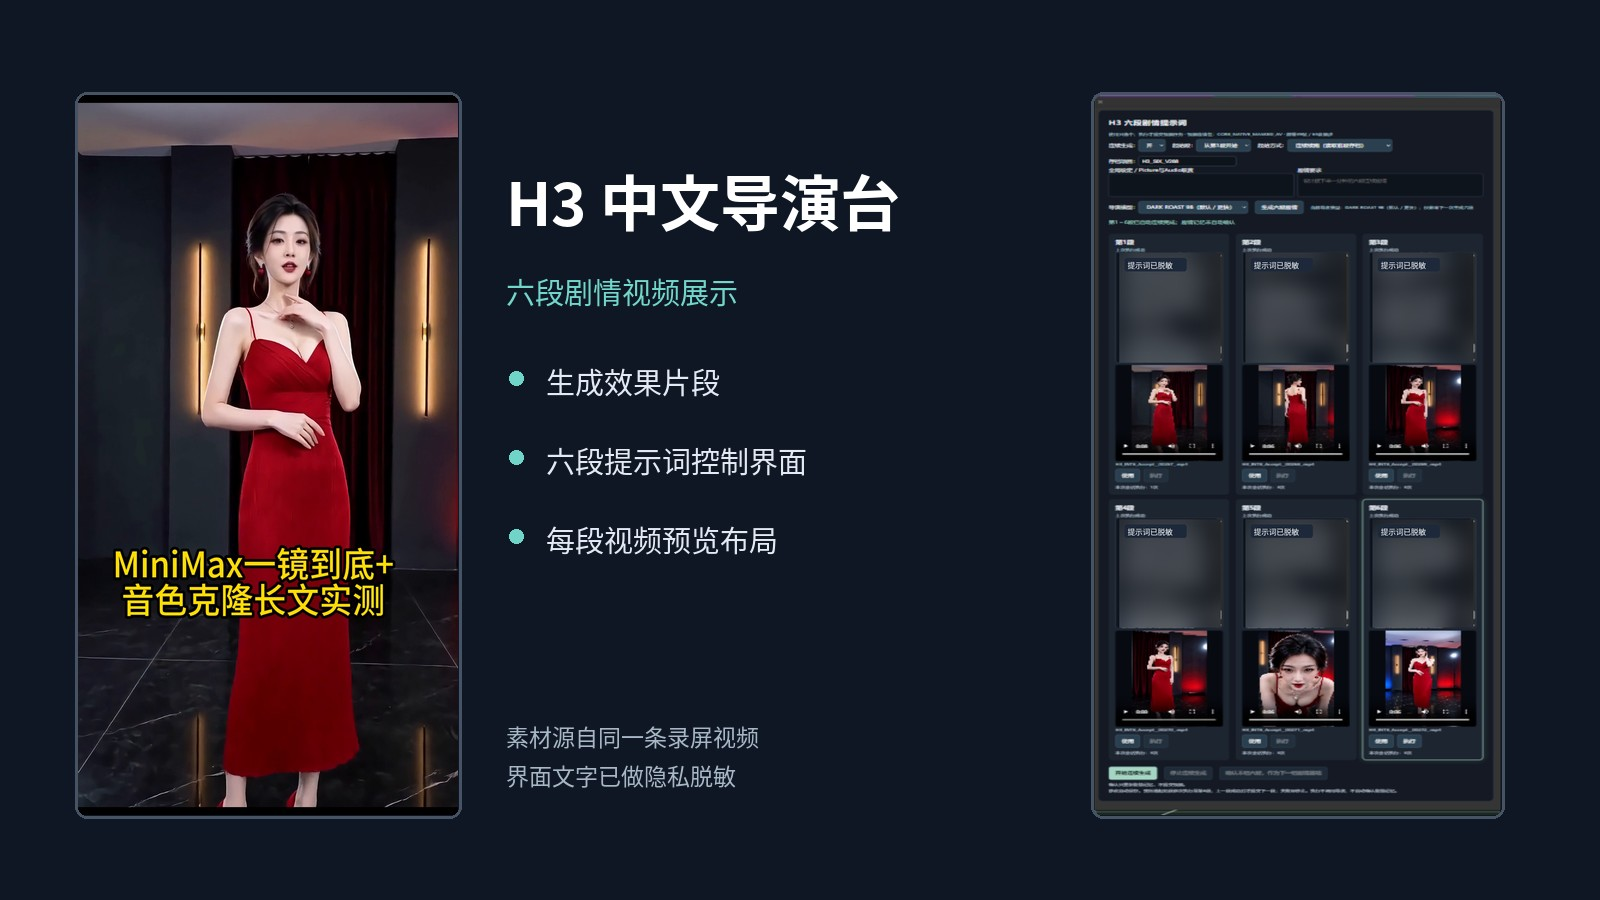
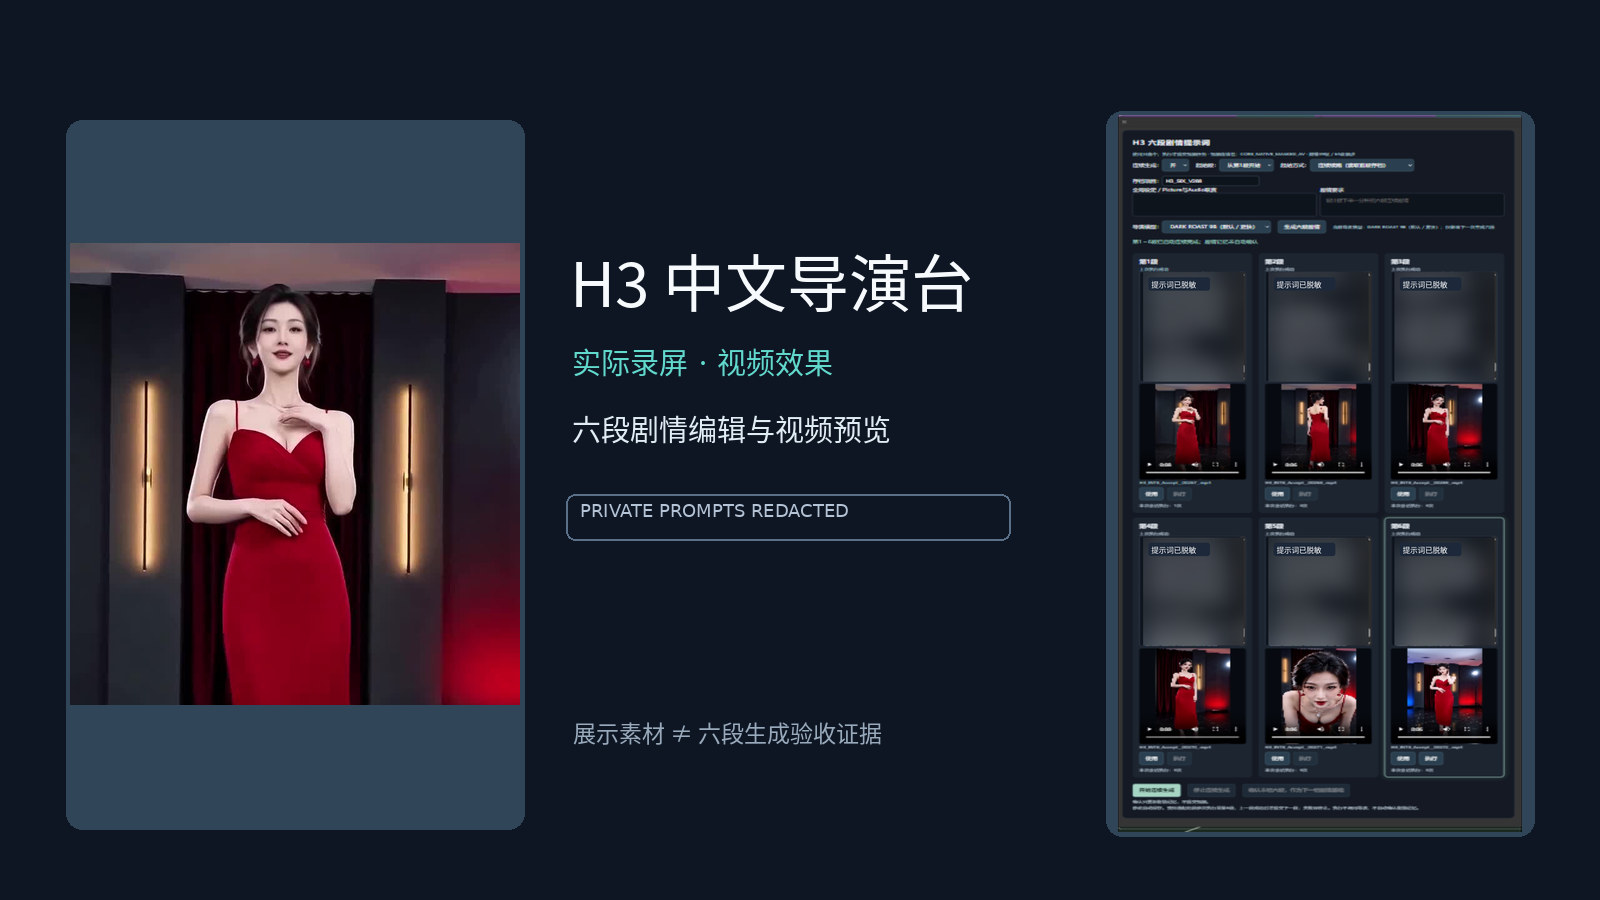
docs: finalize genuine H3 showcase and retire temporary uploader; ci: Node 24 actions

diff --git a/scripts/sanitize/scan_sensitive.py b/scripts/sanitize/scan_sensitive.py
@@ -36,9 +36,9 @@ MEDIA_RE = re.compile(r"(?i)(?<![/\\:])[\w\u4e00-\u9fff\-]{2,140}\."
                       r"(png|jpe?g|webp|gif|bmp|mp4|mov|avi|mkv|webm|wav|mp3|flac|ogg|m4a)\b")
 SHOWCASE_MEDIA_SHA256 = {
[6 lines of base64/hex data omitted]
 }
 MEDIA_ALLOW = {"__H3_GUIDE_NOT_SET__.png", "example.png", "example.jpg"}
 MEDIA_ALLOW.update(os.path.basename(p) for p in SHOWCASE_MEDIA_SHA256)

diff --git a/README.md b/README.md
@@ -4,21 +4,26 @@
 
 **English:** [H3 Chinese Director — MiniMax H3 six-segment workflow for ComfyUI](README_EN.md) · [GitHub Release v29.4](https://github.com/asd454314633-byte/H3-Chinese-Director/releases/tag/v29.4)
 
-## 实录演示：视频效果与六段剧情控制界面
+## 真实录屏展示｜视频效果与六段导演台
 
-下面是从真实录屏制作的无声动态预览。**进入仓库主页即可看到画面运动**，无需进入 GitHub 的 MP4 文件页面。
+![H3 中文导演台：真实录屏画面及六段剧情界面](assets/showcase/showcase-cover.jpg)
 
-![H3 视频效果动态预览（GIF）](assets/showcase/demo-preview.gif)
+以下为从同一条录屏截取的**无声动态预览**。为避免混淆功能，预览只裁切掉原视频底部其他主题的文字标题；视频画面与人物未通过 AI 重绘。
 
-**[▶ 打开完整 55.7 秒演示视频（MP4，含音频）](https://raw.githubusercontent.com/asd454314633-byte/H3-Chinese-Director/main/assets/showcase/h3-six-segment-demo-github.mp4)** · [查看静态封面](assets/showcase/showcase-cover.jpg)
+![真实视频画面动态预览（GIF）](assets/showcase/demo-preview.gif)
 
-> 视频使用 GitHub 原始文件直链打开。部分浏览器会直接播放，部分浏览器会下载文件；如果下载，双击 MP4 即可播放。请勿点击仓库的 `blob/...mp4` 页面，该页面可能提示视频过大，不能预览。
+**[▶ 打开 55.7 秒完整视频（MP4，含原声）](https://raw.githubusercontent.com/asd454314633-byte/H3-Chinese-Director/main/assets/showcase/h3-six-segment-demo-github.mp4)**
 
-### 六段提示词编辑与视频预览界面
+> 完整 MP4 保留原视频画面和原始字幕。字幕中有关“一镜到底”“音色克隆”等内容是原始素材自身的描述，**不是本仓库六段连续生成、Latent 接续或音色克隆的验收声明**。视频链接指向原始 MP4 文件，部分浏览器会直接下载，并不会自动出现 README 内嵌播放器。
 
-![六段提示词与视频预览面板（提示词已脱敏）](assets/showcase/six-segment-panel-redacted.png)
+### 六段提示词与视频预览界面
 
-> **证据边界：** 本视频展示画面效果与六段编辑/预览界面的外观，但不能单凭录屏证明 8197 冻结生产基线来源、完整生成回执、AV Latent 接续、自动合并或性能数据。这些技术结论仍以独立验收记录为准。
+[![六段编辑框和六段视频预览（私人提示词已脱敏，点击查看原尺寸）](assets/showcase/six-segment-panel-redacted.png)](assets/showcase/six-segment-panel-redacted.png)
+
+**[查看六段界面原尺寸截图](assets/showcase/six-segment-panel-redacted.png)**
+
+> **真实性边界：** 这些素材展示实际录屏画面及录屏末尾的六段编辑/预览界面。仅凭录屏无法核定 8197 冻结基线来源、六段完整生成回执、AV Latent 接续、自动合并及速度结论；具体验收仍以独立证据和功能矩阵为准。
+
 
 ### 快速查看
 

diff --git a/README_EN.md b/README_EN.md
@@ -4,21 +4,26 @@
 
 **中文说明：** [H3 中文导演台](README.md) · [Latest published release: v29.4](https://github.com/asd454314633-byte/H3-Chinese-Director/releases/tag/v29.4)
 
-## Recorded showcase: video output and six-segment editor
+## Recorded showcase | video result and six-segment editor
 
-The animated preview below **plays directly on the repository homepage** (muted GIF); there is no need to open a GitHub MP4 blob preview page.
+![H3 Chinese Director — genuine recorded video frame and six-segment interface](assets/showcase/showcase-cover.jpg)
 
-![H3 video result — animated preview](assets/showcase/demo-preview.gif)
+The animated preview is made from a **genuine recording**. It is silently cropped to exclude a source-video caption advertising an unrelated test; no AI-generated substitute video or interface has been inserted.
 
-**[▶ Open the full 55.7-second MP4 with audio](https://raw.githubusercontent.com/asd454314633-byte/H3-Chinese-Director/main/assets/showcase/h3-six-segment-demo-github.mp4)** · [Static cover](assets/showcase/showcase-cover.jpg)
+![Animated preview (cropped genuine recording)](assets/showcase/demo-preview.gif)
 
-> This links directly to the raw MP4. Depending on the browser it may play inline or download; open the downloaded MP4 with a media player. GitHub's `blob/...mp4` page may be unable to preview the file.
+**[▶ Open the complete 55.7-second MP4 (original audio)](https://raw.githubusercontent.com/asd454314633-byte/H3-Chinese-Director/main/assets/showcase/h3-six-segment-demo-github.mp4)**
 
-### Six-segment prompt editor and video previews
+> The original MP4 retains its baked-in source caption mentioning “one shot” and “voice cloning”. Those claims describe the source recording; **they are not evidence of this repository's six-segment generation, latent continuation, or voice cloning**. Some browsers download raw MP4 files rather than playing them inline. This is not an embedded README player.
 
-![Six-segment prompt/video panel with private text redacted](assets/showcase/six-segment-panel-redacted.png)
+### Six-segment prompts and video previews
 
-> **Evidence scope:** The recording illustrates visual output and editor/preview layout, but does not independently substantiate 8197 frozen-production provenance, all six generation receipts, AV-latent continuation, automatic merging, or GPU performance.
+[![Six-segment prompt/video panel (private text redacted; click for original size)](assets/showcase/six-segment-panel-redacted.png)](assets/showcase/six-segment-panel-redacted.png)
+
+**[Open the full-size panel screenshot](assets/showcase/six-segment-panel-redacted.png)**
+
+> **Evidence boundary:** The recording shows visual output and the six-segment editing/preview layout. It does not, by itself, verify 8197 frozen-production provenance, six completed generation receipts, AV-latent continuation, automatic merging, or performance. See the separate evidence and feature matrix.
+
 
 ### Project at a glance
 

diff --git a/docs/SECURITY_AND_PRIVACY.md b/docs/SECURITY_AND_PRIVACY.md
@@ -128,3 +128,12 @@ python tests/test_no_personal_prompt_residue.py
 **最终处置（v29.3 收口）**：上述 14 个历史工作流文件连同整个 `workflows/history/`、`history/` 一起**退出公开包**——
 不再依赖"脱敏后的历史副本"，个人创作内容的公开面收敛为**唯一 V29 工作流 + 自研源码 + 文档**。
 残留签名断言与规则扫描**继续保留**在测试里，作为对现存公开文件的永久回归门禁。
+
+
+## 11. 2026-10-13 公开演示素材最终收口
+
+- 展示仅限 `assets/showcase/` 四份明确授权素材：完整 MP4、真实录屏裁切 GIF、准确截图组合封面、六段界面私人提示词脱敏截图。
+- 新封面与 GIF 不再包含原片中的其他测试主题字幕；通过原始录屏画面的像素级裁切与组合实现，**不补造 UI、人物或验收数据**。
+- 原始 MP4 保留源字幕和音频；它是效果/界面展示，**不是**六段连续、声纹克隆或 8197 来源的独立验收证据。
+- 修改后的封面和 GIF SHA256 已写入 `scripts/sanitize/scan_sensitive.py` 的精确媒体白名单，所有其他类型二进制仍默认拒绝。
+- 仅用于媒体拼装的 GitHub Actions 工作流在最后发布验证成功后退役；日常离线 CI 不再具有不必要的写入权限。
